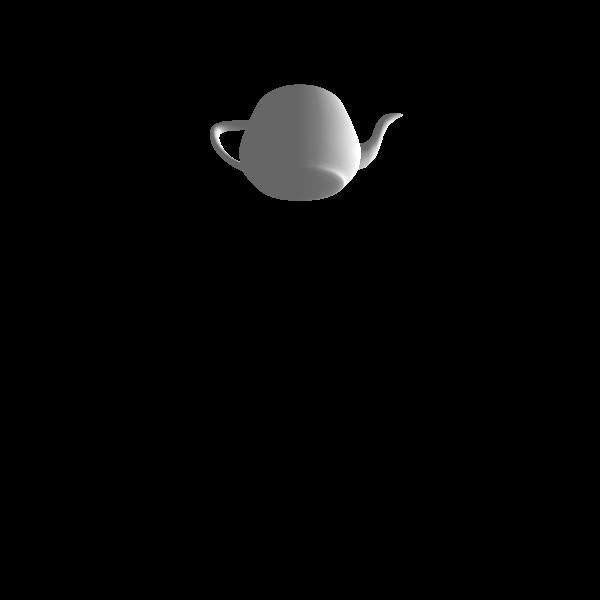
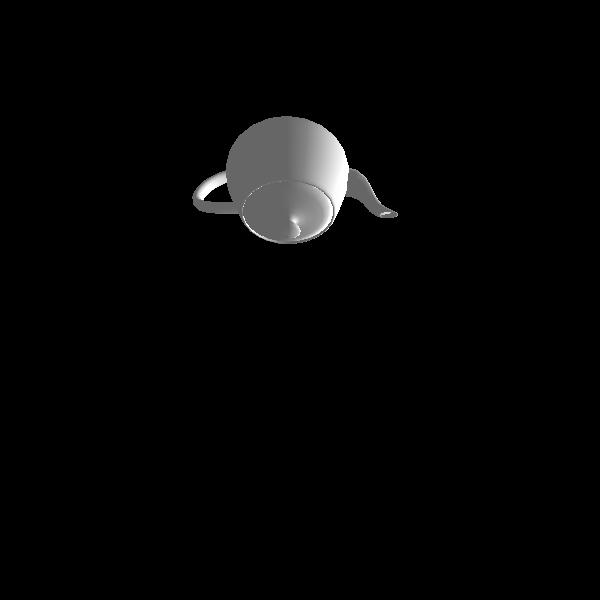
add backdrop img

Changed region(s): [[0.3, 0.12, 0.66, 0.42]]

diff --git a/mainApplication/GUI.py b/mainApplication/GUI.py
@@ -23,7 +23,10 @@ class Gui():
         self.cfg={"homeCfg":(5.23747141, -0.01606842, -0.3270202)}
 
         self.cursorSpeed = 0.05
+        self.cursorIsHold = False
         
+        self.initHoldCursor = None
+        self.offsetCursor = np.eye(4)
     def __initWindow(self,size=(800,600),name="UI"):
         print("Init GUI window ... ",end="")
         self.window = fltk.Fl_Window(size[0],size[1],name)
@@ -109,24 +112,41 @@ class Gui():
         
         cursorTransform[2,3] -= self.cfg["homeCfg"][2]
         
-        self.openglWindow.cursorTransform = cursorTransform
         
-        self.openglWindow.redraw()
-        self.__updateOutput(cvtedPose)
+        if self.openglWindow.flags['offsetMode']:
+            self.offsetCursor = np.dot(cursorTransform,np.linalg.inv(self.openglWindow.cursorTransform.copy()))
+            # self.offsetCursor[0:3,0:3] = np.eye(3)
+            # self.offsetCursor = cursorTransform
+            print(self.offsetCursor)
+        else:
         
+            self.openglWindow.cursorTransform = np.dot(np.linalg.inv(self.offsetCursor),cursorTransform)
+            
+            self.openglWindow.redraw()
+            self.__updateOutput(cvtedPose)
+            
         # check any model is selected when mouse clicked
         if buttonStates[0] == 1 and buttonStates[1] == 0:
             
-            
+            # pass
             print("left click!")
             selectedModel = self.selectModel()
             for model in selectedModel:
                 print("selectModel = ",model.name)
                 
-        elif buttonStates[0] == 0 and buttonStates[1] == 1:      
+        elif buttonStates[0] == 0 and buttonStates[1] == 1: 
+            # pass     
             print("releaseModel")
             self.releaseModel()
-            
+        # elif buttonStates[0] == 1 and buttonStates[1] == 1:      
+        #     print("Hold cursor")
+        #     # self.cursorIsHold = not self.cursorIsHold
+        #     self.offsetCursor = np.dot(cursorTransform,np.linalg.inv(self.openglWindow.cursorTransform.copy()))
+        #     self.offsetCursor[0:3,0:3] = np.eye(3)
+        #     print(self.offsetCursor)
+        
+    
+        
     def addModel(self,name,drawFunction = None,position=(0,0,0),rotation=(0,0,0),obj=None):
         print("Add model name",name)
         self.openglWindow.addModel(name,drawFunction,position,rotation,obj=obj)

diff --git a/mainApplication/OpenGLWindow.py b/mainApplication/OpenGLWindow.py
@@ -21,6 +21,7 @@ class OpenGLWindow(fltk.Fl_Gl_Window):
         fltk.Fl_Gl_Window.__init__(self, xpos, ypos, width, height, label)
         
         self.cursorTransform = np.eye(4)
+        self.cursorOffset = np.eye(4)
         self.pose = [0,0,0,0,0,0,0,0,0]
         self.modelDicts = {'model':[],
                            'movepose':[],
@@ -40,7 +41,8 @@ class OpenGLWindow(fltk.Fl_Gl_Window):
                       'showModel':True,
                       'resetModelTransform':False,
                       'lineupTestMode':False,
-                      'showModelWireframe':False}
+                      'showModelWireframe':False,
+                      'offsetMode':False}
         
         self.iouScore = np.array([])
        
@@ -113,6 +115,7 @@ class OpenGLWindow(fltk.Fl_Gl_Window):
         GL.glFrustum(-1, 1, -1, 1, 1, 100)
         # print(self.scaleY,self.scaleZ,self.scaleX)
         GL.glTranslatef(self.scaleY,self.scaleZ,self.scaleX)
+        GL.glTranslatef(0,-5,0)
         
         GL.glMatrixMode(GL.GL_MODELVIEW)
         GL.glLoadIdentity()
@@ -229,7 +232,7 @@ class OpenGLWindow(fltk.Fl_Gl_Window):
                                  
                     self.iouScore = np.append(self.iouScore,score)
                     print(self.iouScore)
-                    self.testMode(4)
+                    self.testMode(6)
                     print(self.flags['lineupTestMode'])
                     if self.flags['lineupTestMode']:
                         self.openBackdropFile("backdropImg/backdrop_"+str(self.testNumber)+".jpg")   
@@ -242,7 +245,9 @@ class OpenGLWindow(fltk.Fl_Gl_Window):
                 self.flags['resetModelTransform'] = True
             
             if fltk.Fl.event_key() == ord('p'):
-                self.testMode(4)
+                self.testMode(6)
+            if fltk.Fl.event_key() == ord('c'):
+                self.flags['offsetMode'] = not self.flags['offsetMode']
             fltk.Fl_check()
             return 1
         

diff --git a/mainApplication/drawFunc.py b/mainApplication/drawFunc.py
@@ -20,7 +20,7 @@ BlackColorVector = (0,0,0)
 
 def point():
     glEnable(GL_POINT_SMOOTH)
-    glPointSize(5)
+    glPointSize(10)
     glBegin(GL_POINTS)
     glColor3fv(MagentaColorVector)
     glVertex3f(0, 0, 0)
